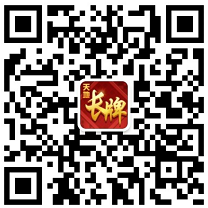
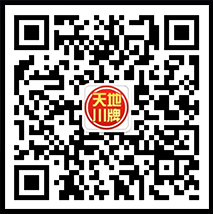
修改商城二维码；修正热更后返回键不响应的问题

diff --git a/Assets/Client/Editor/BuildManager/BuildManager.cs b/Assets/Client/Editor/BuildManager/BuildManager.cs
@@ -84,10 +84,13 @@ public class BuildManager : EditorWindow
         }
         mBuildPackage = EditorGUILayout.Toggle("Build Package", mBuildPackage);
 
+        string outputPath = string.Empty;
+
         EditorGUILayout.BeginHorizontal();
         {
             GUI.enabled = mBuildPackage;
-            EditorGUILayout.TextField("Package Path", mPackagePath);
+            outputPath = mPackagePath + (mDebug ? "/Debug" : "/Release");
+            EditorGUILayout.TextField("Package Path", outputPath);
             GUI.enabled = true;
 
             if (GUILayout.Button("...", GUILayout.Width(30)))
@@ -145,7 +148,7 @@ public class BuildManager : EditorWindow
 
                 if (mCopyPatch)
                 {
-                    string patchPath = LFS.CombinePath(Directory.GetParent(Application.dataPath).FullName, PATCH_PATH);
+                    string patchPath = LFS.CombinePath(Directory.GetParent(Application.dataPath).FullName, PATCH_PATH, mDebug ? "Debug" : "Release");
                     LFS.MakeDir(patchPath);
 
                     string verPath = LFS.CombinePath(patchPath, mVersionDic[numk]);
@@ -233,7 +236,7 @@ public class BuildManager : EditorWindow
                     PlayerSettings.companyName = "成都巴蜀互娱科技有限公司";
                     PlayerSettings.productName = "幺九麻将";
 
-                    string packageFullName = LFS.CombinePath(mPackagePath, packageName);
+                    string packageFullName = LFS.CombinePath(outputPath, packageName);
                     string err = Build.BuildPackage(packageFullName, mTargetPlatform, mDevelopment);
 
                     PlayerSettings.companyName = companyName;
